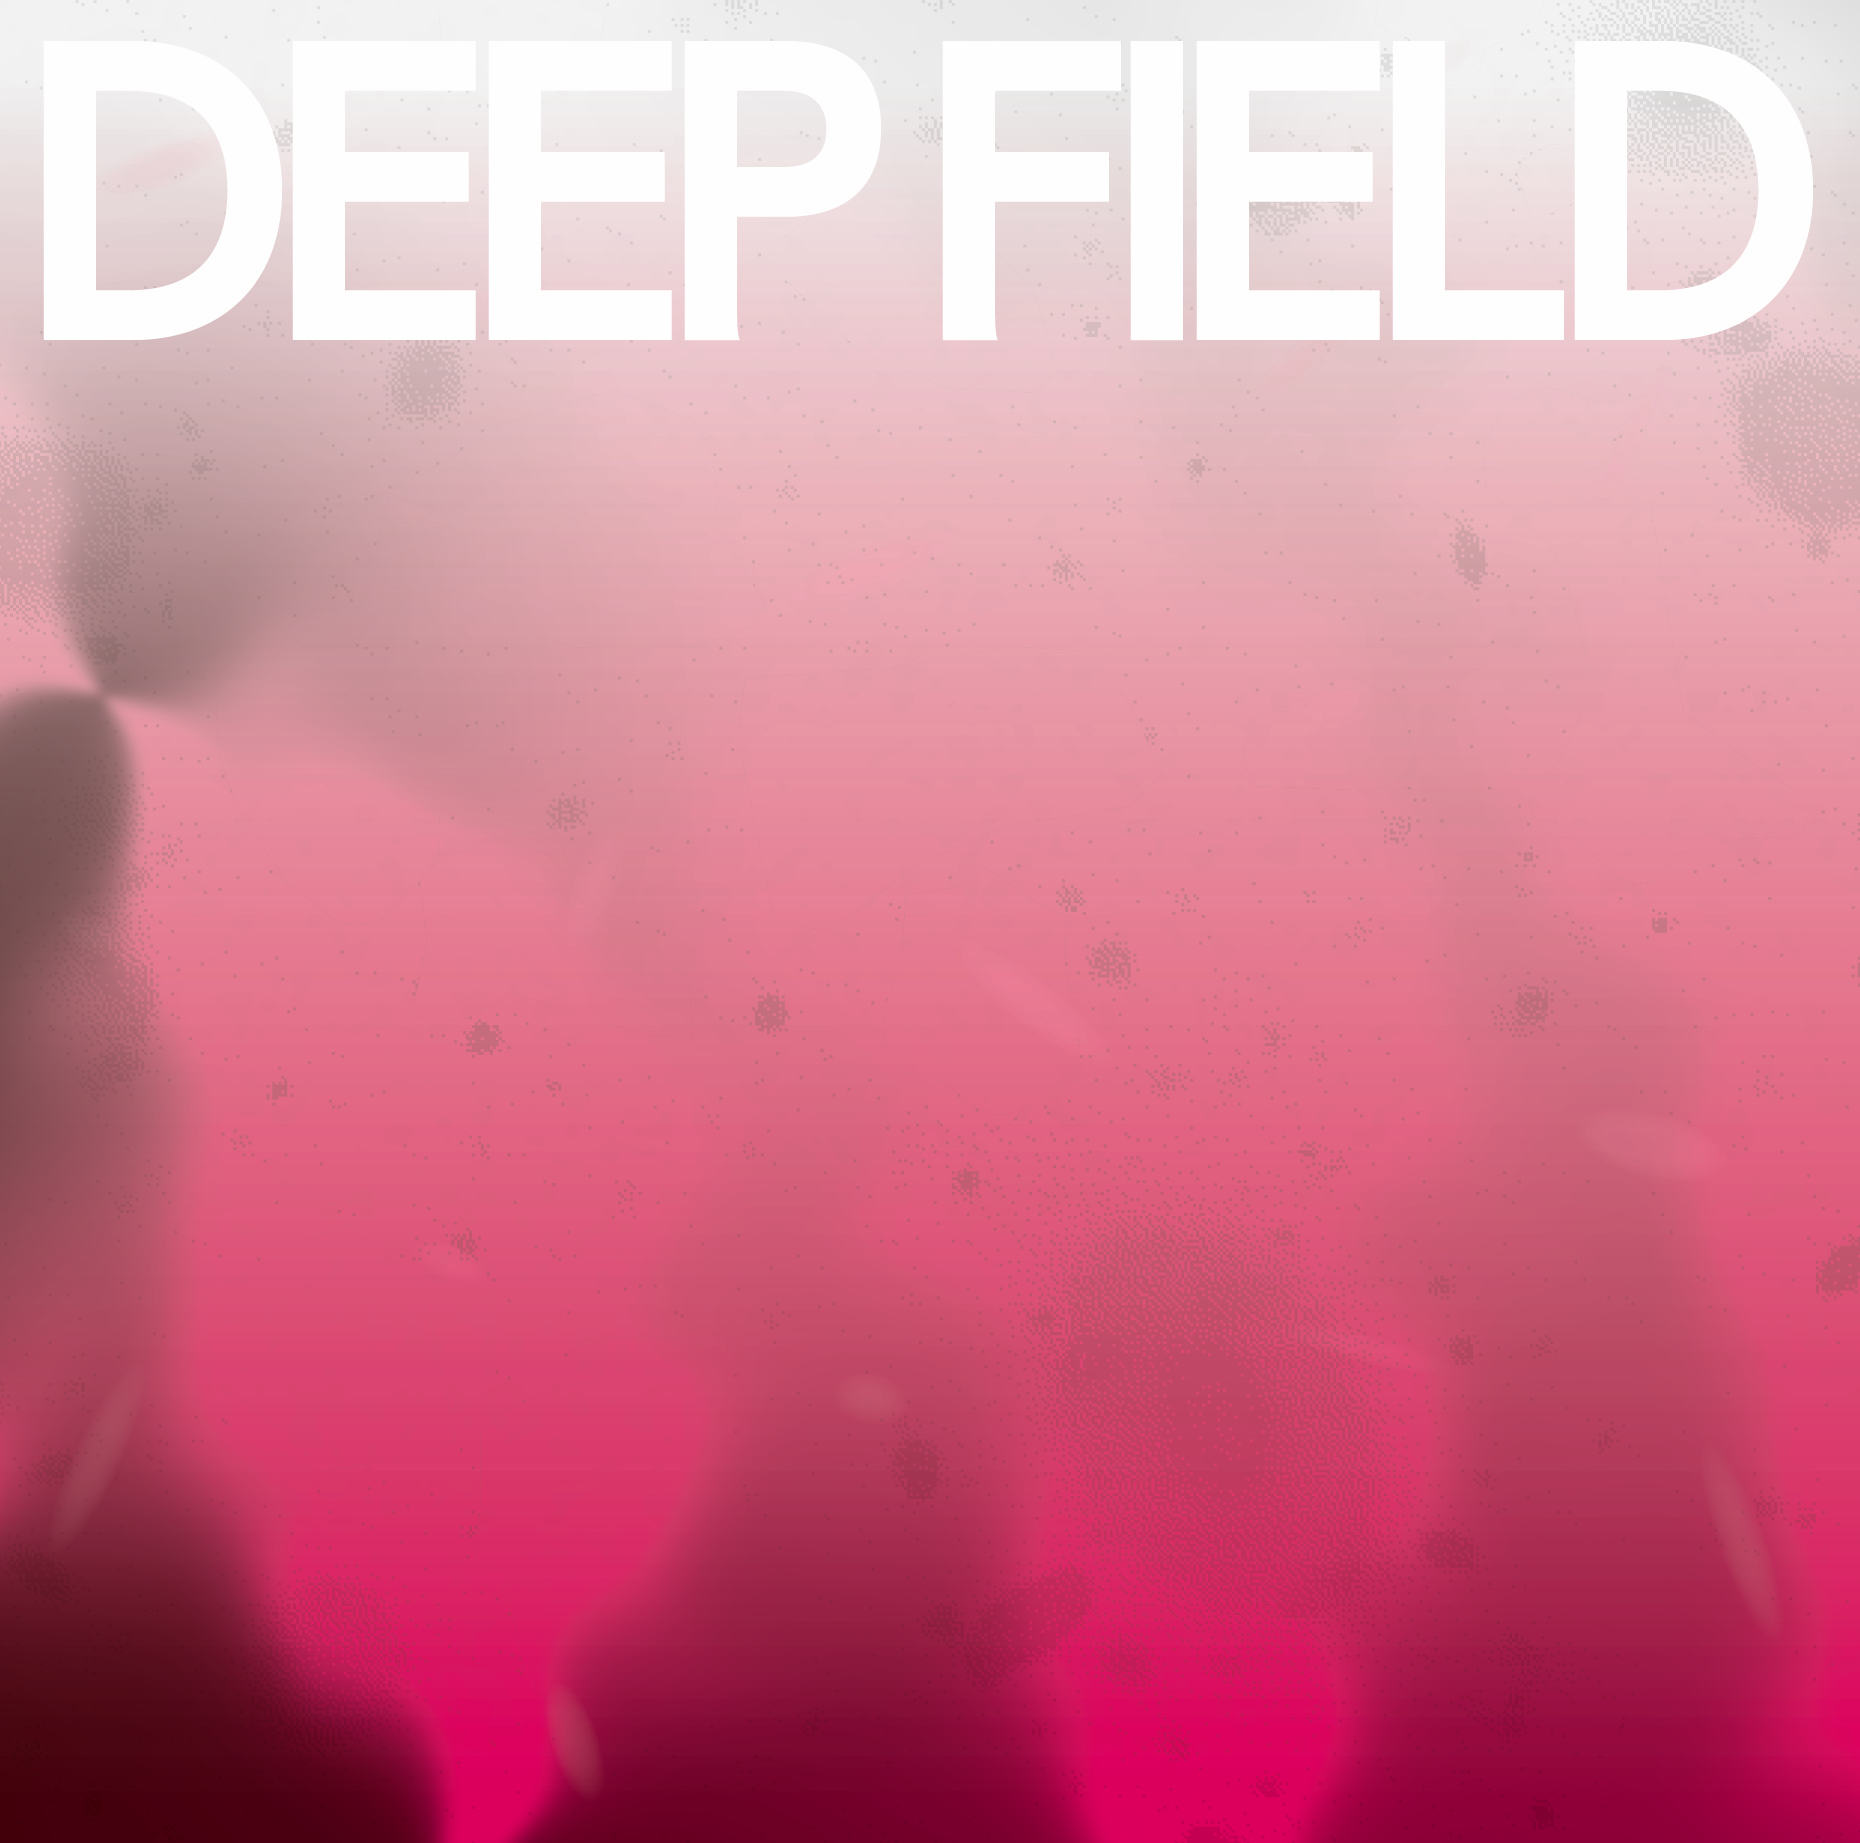
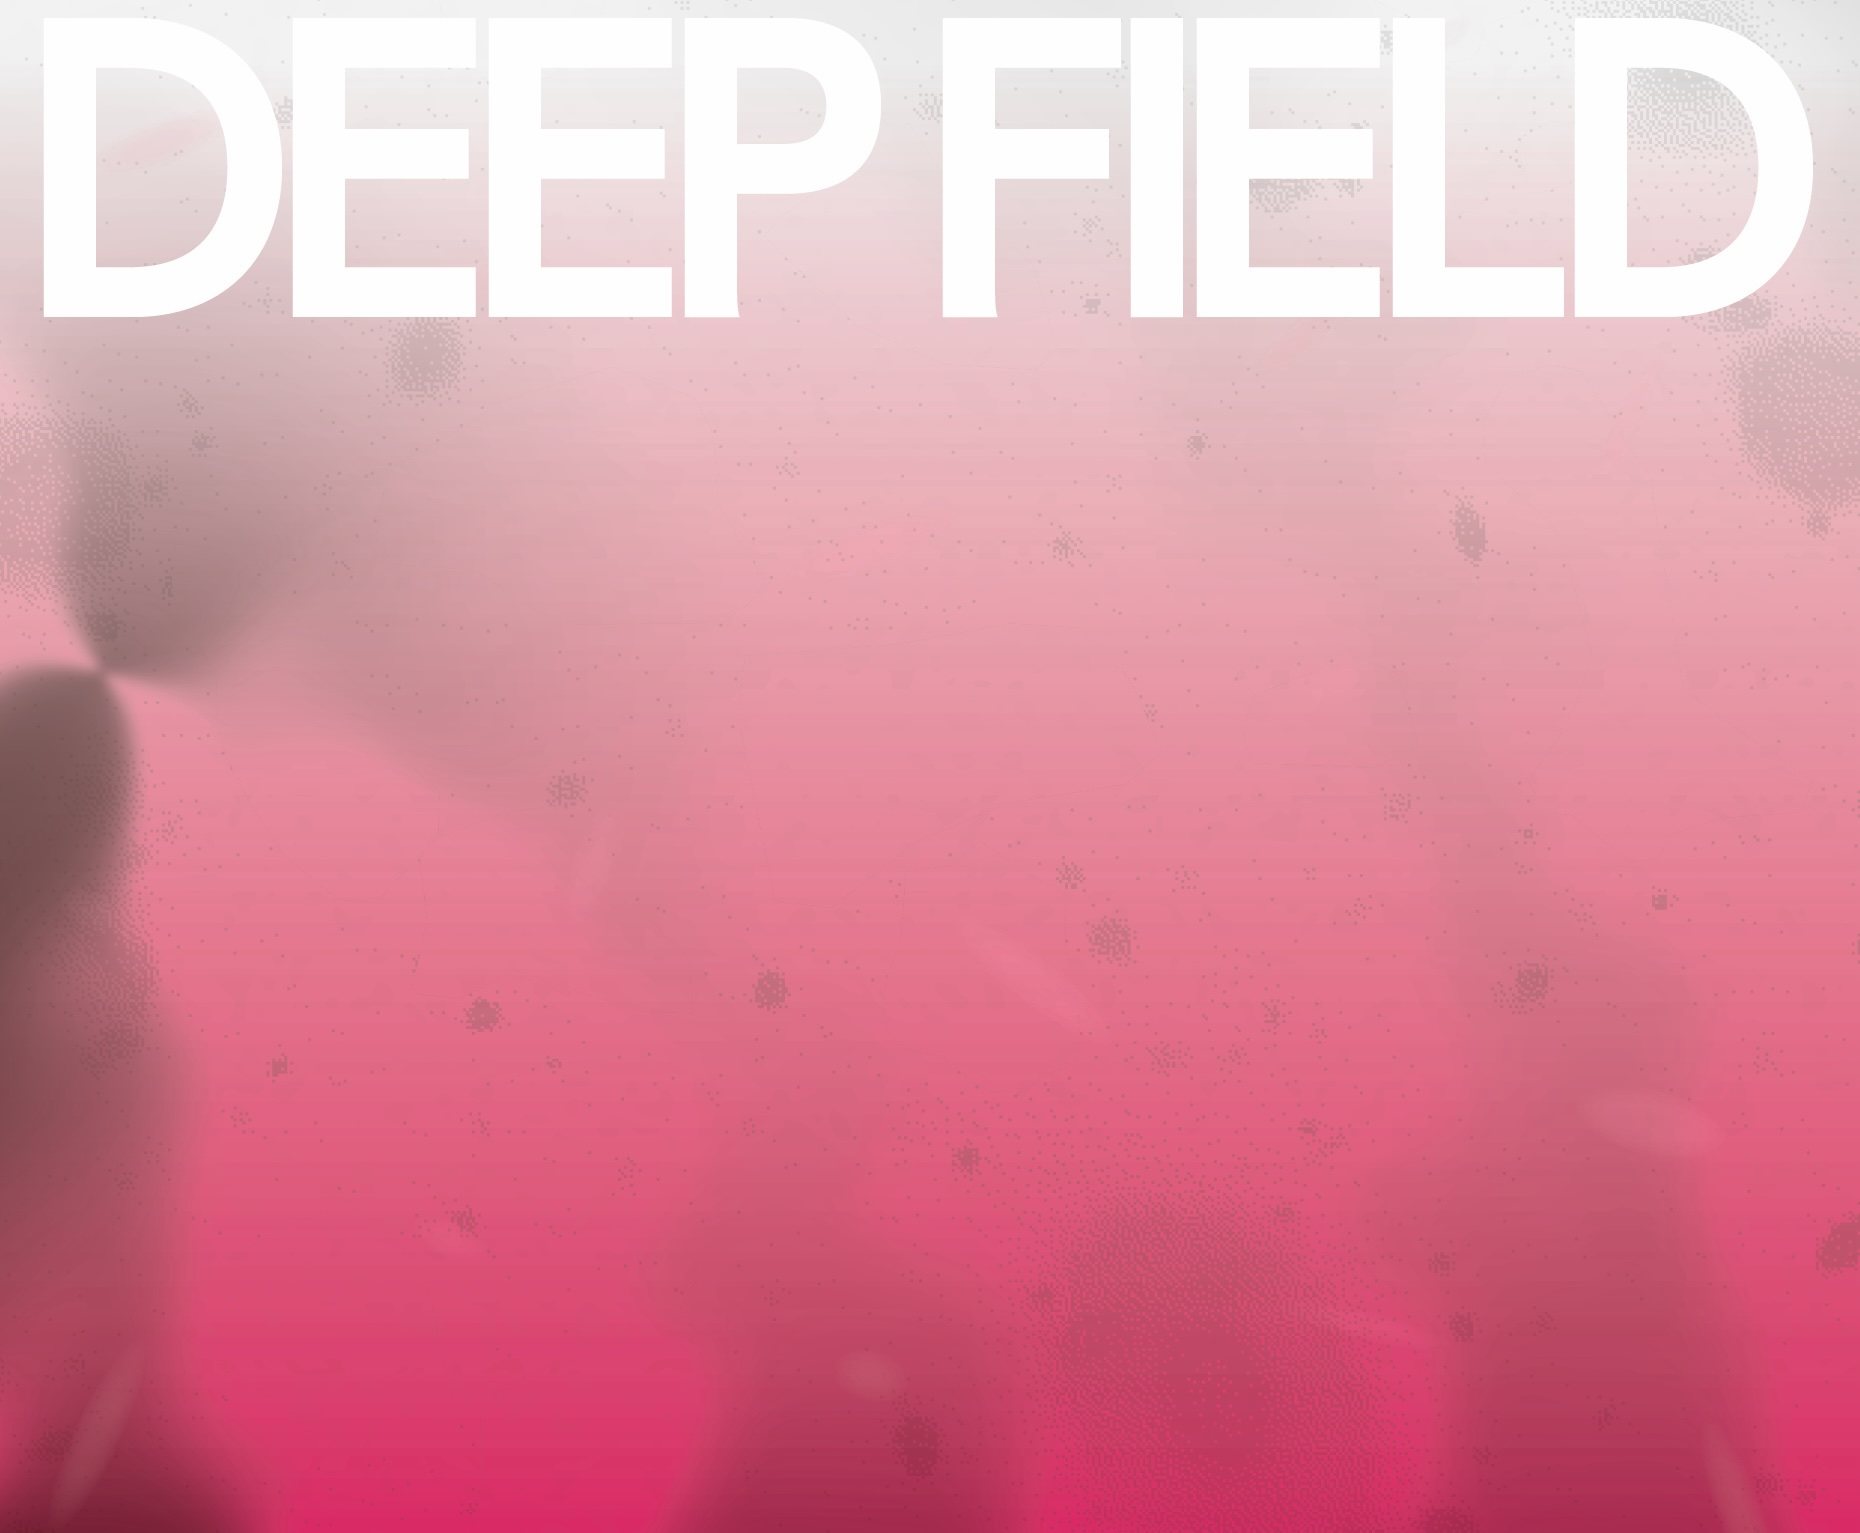
DeppField and FONT cahnges

diff --git a/CSSbody.css b/CSSbody.css
@@ -1,3 +1,9 @@
+/* cool wäre auch eine kombination zb
+ - aus Helvetica oder Neue Haas Grotesk -  Überschriften
+ - und Georgia - fließtext
+ 
+ Da wäre georgia zb für fließtexte und überschriften mit neue haas oder helvetica. das könnte ich mir auch vorstlelen */
+
 :root {
 	/* Farben */
 	--bgcMain: 20 5% 75%;
@@ -28,6 +34,8 @@
 	--imgSize: 1.25rem;
 	--UIRadius: 0.2rem;
 	--filter: 1;
+	--imgShadow: 1px 1px 5px;
+
 	/* Borders */
 	--UIBorderThin: 0.042rem solid hsl(var(--bgcMain));
 	--UIBorderThick: 0.067rem solid hsl(var(--bgcMain));
@@ -42,10 +50,12 @@
 	--fw-500: 500;
 	--fw-600: 600;
 
+	--fontHeader: Helvetica;
+	--fontText: Georgia;
+
 	--UIHeight1: 1.5rem;
 	--UIHeight2: calc(var(--UIHeight1) * 2);
 	--UIHeight3: calc(var(--UIHeight1) * 3);
-
 	--UIWidth1: calc(var(--UIHeight1) * 1);
 	--UIWidth2: calc(var(--UIHeight1) * 2);
 	--UIWidth3: calc(var(--UIHeight1) * 3);
@@ -124,6 +134,8 @@
 	font-weight: 600;
 }
 
+/* ----------------- BODY ----------------- */
+
 * {
 	margin: 0;
 	padding: 0;
@@ -138,12 +150,15 @@
 }
 
 body {
-	font-family: "PTSerif", "HKGrotesk", arial;
+	/* font-family:  "PTSerif", "HKGrotesk", Arial; */
+	/* line-height: 1.48; PTSerif */
+	/* font-family: Georgia; */
+	/* font-family: Helvetica; */
+	font-family: var(--fontText);
 	font-size: var(--fs-Base);
 	font-weight: var(--fw-Base);
-	line-height: 1.48;
-	letter-spacing: 0.05rem;
-
+	line-height: 1.25;
+	letter-spacing: 0.06rem;
 	display: -webkit-box;
 	display: flex;
 	background-color: hsl(var(--bgcBackground));
@@ -156,6 +171,7 @@ body {
 }
 
 h1 {
+	font-family: var(--fontHeader);
 	font-size: var(--fs-Medium);
 	font-weight: var(--fw-Base);
 	text-align: center;
@@ -163,6 +179,7 @@ h1 {
 }
 
 h2 {
+	font-family: var(--fontHeader);
 	font-size: var(--fs-Medium);
 	font-weight: var(--fw-Base);
 	text-align: center;
@@ -170,6 +187,7 @@ h2 {
 }
 
 h3 {
+	font-family: var(--fontHeader);
 	font-size: var(--fs-Medium);
 	font-weight: var(--fw-Base);
 	text-align: justify;
@@ -178,52 +196,7 @@ h3 {
 
 div,
 a {
-	/* font-size: var(--fs-Base);
-	font-weight: var(--fw-Base); */
-	/* border: none; */
 	color: hsl(var(--txtBackground));
-}
-
-input,
-select,
-button {
-	font-family: "PTSerif", "HKGrotesk", arial;
-	font-size: var(--fs-Base);
-	font-weight: var(--fw-Base);
-	height: var(--UIHeight1);
-	text-decoration: none;
-	background-color: hsl(var(--bgcButton));
-	color: hsl(var(--txtButton));
-	border: var(--UIBorderThin);
-	border-radius: var(--UIRadius);
-	cursor: pointer;
-	vertical-align: middle;
-
-	min-width: var(--UIWidth8);
-	max-width: var(--UIWidth16);
-	transition: all var(--trT-short) ease-in-out;
-}
-
-select {
-	text-indent: var(--padding);
-	border-right: var(--UIBorderThick);
-	border-bottom: var(--UIBorderThick);
-	-o-text-overflow: ellipsis;
-	text-overflow: ellipsis;
-}
-select:disabled {
-	background-color: hsl(var(--bgcMain) / 0.1);
-	color: hsl(var(--txtMain));
-	cursor: default;
-}
-
-input:hover,
-select:hover,
-button:hover {
-	background-color: hsl(var(--bgcMain) / 0.9);
-	color: hsl(var(--txtMain));
-	transition-duration: 0.1s;
-	transition-delay: 0s;
 }
 
 p {
@@ -246,6 +219,7 @@ img {
 
 /*-----------------NAVBAR -----------------*/
 nav {
+	font-family: var(--fontHeader);
 	position: fixed;
 	top: 0;
 	left: 0;
@@ -278,6 +252,7 @@ nav:after {
 }
 
 footer {
+	font-family: var(--fontHeader);
 	position: fixed;
 	bottom: 0;
 	left: 0;
@@ -353,6 +328,7 @@ footer:before {
 	grid-gap: var(--cardGap);
 	grid-auto-flow: column;
 	background: hsla(var(--bgcMain) / 0.7);
+	filter: invert(var(--filter));
 	-webkit-box-pack: center;
 	justify-content: center;
 	cursor: pointer;
@@ -540,6 +516,10 @@ section[hidden] {
 	align-items: center;
 }
 
+.cl_cardImage {
+	box-shadow: var(--imgShadow);
+}
+
 .cl_diskoPreview {
 	-webkit-transition: all var(--trT-short) ease-in-out;
 	-o-transition: all var(--trT-short) ease-in-out;
@@ -556,6 +536,7 @@ section[hidden] {
 .cl_diskoPreviewImg {
 	aspect-ratio: 1.28;
 	object-fit: cover;
+	box-shadow: var(--imgShadow);
 }
 
 .cl_Disko_CardGrid {
@@ -816,4 +797,8 @@ section[hidden] {
 
 [uiAlign~="bottom"] {
 	align-items: flex-end;
+}
+
+[uiKhage~="Home"] {
+	box-shadow: var(--imgShadow);
 }

diff --git a/Data.js b/Data.js
@@ -33,9 +33,13 @@ const News = [
 	// 		return { local: "Disko" };
 	// 	},
 	// },
+	{
+		text: "RELEASE! Mein neues Album DEEP FIELD ist seit dem 10.11.2023 auf CD, LP und den bekannten Streamingdiensten (Apple Music, Spotify, Amazon Music...) zu hören!",
+		get link() {
+			return { local: "Disko" };
+		},
+	},
 ];
-
-// Konzerte sind jetzt in eigener Datei: "KonzertData.js"
 
 const Ensembles = [
 	{
@@ -56,7 +60,7 @@ const Ensembles = [
 			},
 			{
 				type: "amazon",
-				link: "https://www.amazon.de/Siblings-Volker-Heuken-Sextett/dp/B07XV71C1X/ref=sr_1_1?__mk_de_DE=%C3%85M%C3%85%C5%BD%C3%95%C3%91&keywords=volker+heuken+sextett&qid=1579020409&sr=8-1",
+				link: "https://www.amazon.de/s?i=popular&rh=p_32%3AVolker+Heuken+Sextett&ref=dp_byline_sr_music_1",
 			},
 		],
 	},
@@ -128,25 +132,33 @@ const Ensembles = [
 ];
 
 const Disko = [
-	// {
-	// 	title: `Volker Heuken Sextett\nDeep Field`,
-	// 	datum: "2023",
-	// 	picName: "D_DeepField.jpg",
-	// 	cast: ["Julian Bossert - alt", "Antonia Hausmann - posaune", "Volker Heuken - vibraphon", "Lukas Grossmann - piano", "Alex Bayer - bass", "Jan F. Brill - drums"],
-	// 	description: `Erschienen 2023 auf LP in limitierter Auflage und CD.`,
-	// 	links: [
-	// 		{
-	// 			type: "order",
-	// 			link: `Hallo Volker,\n\nich hätte gerne ein Exemplar der LP / CD "DeepField".\n`,
-	// 		},
-	// 	],
-	// },
+	{
+		title: `Volker Heuken Sextett\nDeep Field`,
+		datum: "2023",
+		picName: "D_DeepField.jpg",
+		cast: ["Julian Bossert - alt", "Antonia Hausmann - posaune", "Volker Heuken - vibraphon", "Lukas Grossmann - piano", "Alex Bayer - bass", "Jan F. Brill - drums"],
+		description: `Erschienen 2023 beim Label XJAZZ! Music in Berlin. Aufgenommen im Januar 2023 im RecPublica Studios in Lubrza.`,
+		links: [
+			{
+				type: "order",
+				link: `Hallo Volker,\n\nich hätte gerne ein Exemplar der LP / CD "DeepField".\n`,
+			},
+			{
+				type: "spotify",
+				link: "https://open.spotify.com/intl-de/album/2KLJxRkGGfNMdRJt7Ua9yD",
+			},
+			{
+				type: "AppleMusic",
+				link: "https://music.apple.com/de/album/deep-field/1707218172",
+			},
+		],
+	},
 	{
 		title: `Volker Heuken Sextett\nSiblings`,
 		datum: "2019",
 		picName: "D_Siblings.png",
 		cast: ["Julian Bossert - alt", "Antonia Hausmann - posaune", "Volker Heuken - vibraphon", "Lukas Grossmann - piano", "Alex Bayer - bass", "Jan F. Brill - drums"],
-		description: `Erschienen 2019 beim Label "Float Music" aus Köln. Aufgenommen im Dezember 2018 beim BR Studio Franken.`,
+		description: `Erschienen 2019 beim Label Float Music in Köln. Aufgenommen im Dezember 2018 beim BR Studio Franken.`,
 		links: [
 			{
 				type: "order",
@@ -159,9 +171,7 @@ const Disko = [
 		datum: "2016",
 		picName: "D_Portugal.png",
 		cast: ["Julian Bossert - alt", "Antonia Hausmann - posaune", "Volker Heuken - vibraphon", "Lukas Grossmann - piano", "Alex Bayer - bass", "Jan F. Brill - drums"],
-		description: `
-      Erschienen 2016 beim Label 11 in Nürnberg. Aufgenommen im April 2016 im realistic sound Studio in München.
-      `,
+		description: `Erschienen 2016 beim Label 11 in Nürnberg. Aufgenommen im April 2016 im realistic sound Studio in München.`,
 		links: [
 			{
 				type: "order",

diff --git a/main.js b/main.js
@@ -92,11 +92,11 @@ function navClick(obj = null) {
 }
 
 function createNews() {
-	let parent = dbID("id_NewsListe");
-	parent.innerHTML = "";
+	let parentListe = dbID("id_NewsListe");
+	parentListe.innerHTML = "";
 	for (let news of News) {
 		const newsContainer = document.createElement("div");
-		parent.appendChild(newsContainer);
+		parentListe.appendChild(newsContainer);
 		const spacer = document.createElement("h2");
 		spacer.classList.add("cl_gridLine");
 		newsContainer.appendChild(spacer);
@@ -121,18 +121,18 @@ function createNews() {
 	}
 
 	if (upcommingKonzertList.length == 0) return;
-	parent = dbID(`id_NewsKonzertvorschau`);
-	parent.innerHTML = "";
-
+	const parentPreview = dbID(`id_NewsKonzertvorschau`);
+	parentPreview.innerHTML = "";
 	const newsContainer = document.createElement("div");
-	parent.appendChild(newsContainer);
+	parentPreview.appendChild(newsContainer);
 	const spacer = document.createElement("h2");
 	spacer.classList.add("cl_gridLine");
-	newsContainer.appendChild(spacer);
+	// parentPreview.appendChild(spacer);
+	parentListe.appendChild(spacer);
 	const title = document.createElement("h2");
 	title.textContent = "nächste Veranstaltung:";
 	title.classList.add("cl_konzertFullRow");
-	parent.appendChild(title);
+	parentPreview.appendChild(title);
 
 	let konzert = upcommingKonzertList[0];
 	const GigParent = document.createElement("p");
@@ -148,7 +148,7 @@ function createNews() {
 			globalValues.navClick("Konzerte");
 		};
 	}
-	parent.appendChild(GigParent);
+	parentPreview.appendChild(GigParent);
 }
 
 let upcommingKonzertList = [];

diff --git a/index.html b/index.html
@@ -55,7 +55,8 @@
   <main>
     <section class="cl_section_vertical section_width_1" id="id_Home" hidden=true>
       <div class="cl_imageCenter">
-        <img src="Images/Home/heuken_Klara Spunk_kopie.jpg" uiAlign="center" uiSize="large">
+        <img src="Images/Home/H_DeepField.jpg" uiAlign="center" uiSize="large" uiKhage="Home">
+        <!-- <img src="Images/Home/heuken_Klara Spunk_kopie.jpg" uiAlign="center" uiSize="large"> -->
       </div>
       <h1 class="cl_pageTitle" uiTextAlign="center">Volker Heuken - Vibraphon - Leipzig</h1>
       <br>
